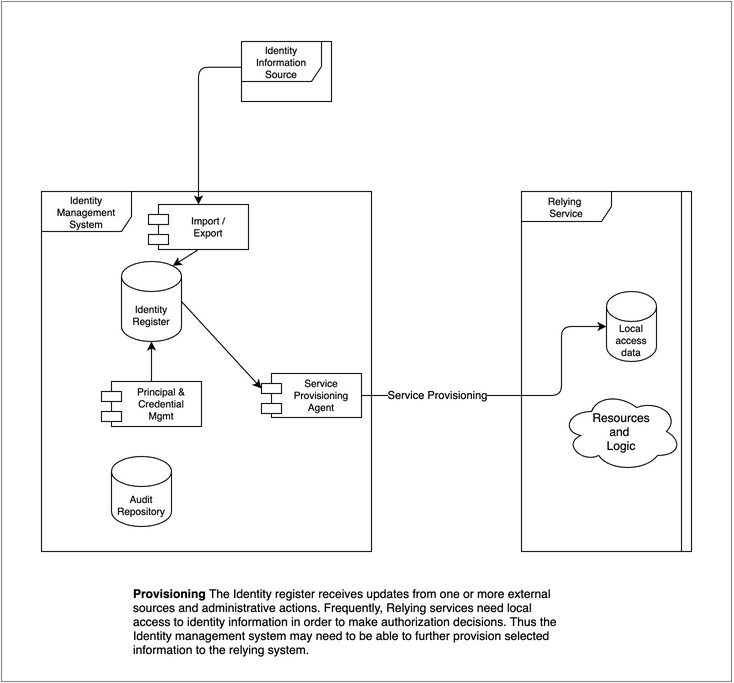
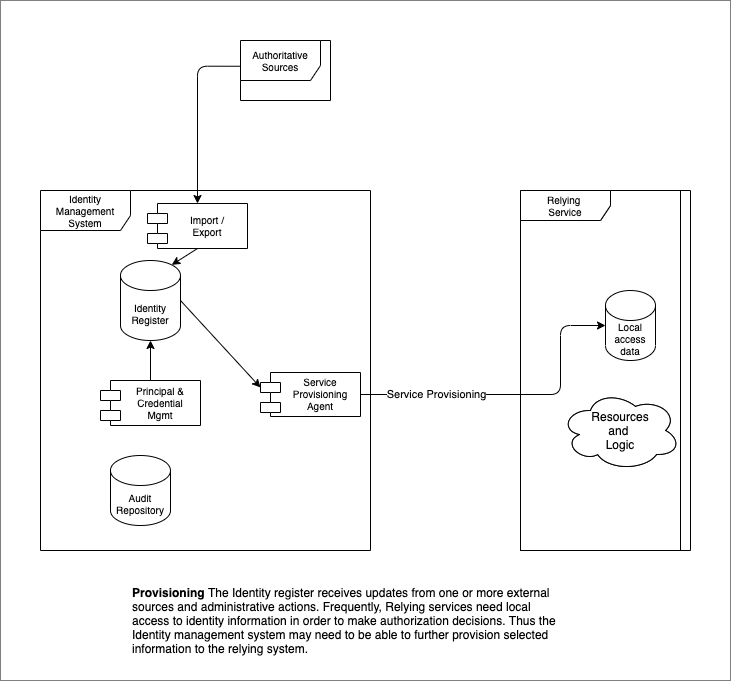
changes based on prior art models

diff --git a/tech-arch.md b/tech-arch.md
@@ -1,13 +1,18 @@
 # Technical Architecture Model
 ## Abstract
-This document provides a model to organize the presentation of technical details associated with various implementations of the architectural concepts.  This article provides the set of generic components which are exemplified below.  It is a restatement/extension of the ISO framing. It is simplified to remove the UML fine points, which the typical reader, may not find helpful. The extension allows authorization and governance can be included. Another extension shows how external risk context can be incorporated into the identity management system. 
+This document provides a model to organize the presentation of technical details associated with various implementations of the architectural concepts.  This article provides the set of generic components which are exemplified in subsequent articles with focus on specific technical use-cases. Each such use-case will indicate which of the abstract components are involved in a particular implementation.
+During the draft phase of this document an appendix is provided to elaborate on that these use-case might be and look like.
+
+The model is a restatement/extension of the ISO/IEC framing. It is simplified to remove the UML fine points, which the typical reader, may not find helpful. And it is extened so that authorization, governance and risk-control can be included. 
+
+The model has been compared to the FICAM, Internet 2, and NIST Zero Trust models.  This comparision caused the author to make some useful adjustments.
 
 ## Introduction
 The following is the basic organization of an identity management system, which supports multiple relying services.
 
 ![](resources/basic-component-dependencies.png)
 
-The most basic function of the identity system is to provide secure storage of the information about identities.  The audit repository is shown since that is perhaps one of the most salient aspects of providing that security. 
+The most basic function of the identity system is to provide secure storage of the information about identities and a way for relying services to use that data to control access to resources.  The audit repository is shown since that is perhaps one of the most salient aspects of providing that security. 
 
 While, it is possible to have an identity management system without attaching it to external data, this is typically not the case. Usually employee or customer data needs to be imported.
 
@@ -17,10 +22,27 @@ In another example, a file system grants access to users based on the user infor
 
 We will add on more detail during the next several sections.
 
+## Terminology
+
+|Term (long)|Term (short) | Definition |
+|---|---|---|
+|Identity Management System | IMS | A set of policies, procedures, technology, and other resources for maintaining identity information.  In this model it contains information about princpals/subjects including credentials.  It also including other data such as meta data to enable interoperability with other components.|
+|Relying Service|RS|A component, system or application that uses the IMS to identify its users. The RS has its own resources and logic. This roughly corresponds to the Agency Endpoint in the FICAM model, to Identity Consumers in the Internet2 model.|
+|Authoritative Sources|AS|This represents one or more data sources that are used to by the IMS as the basis for the master set of principal/subject records. Each AS may supply a subset of records and a subset of attributes.  This corresponds to Identity Information Source in ISO/IEC 24760-2, and Identity Sources in Internet 2|
+|Principal & Credential Mgmt|PCM|This follows the ISO model where the proofing, credentialing, and lifecycle aspects are considered a subfunction of the IMS.  FICAM separates this into a first class component called Credential Management System, which also includes PKI information for federation, which this model indicates under metadata and discovery.|
+|Authentication|AuthN|The act of determining that the principal/subject is authentic to a level of assurance.  In this model this is shown as a collaborative activity between the IMS and the RS. The FICAM model, at a more abstract level, includes this in the first class component called Access Management.|
+|Session|Sess|A period of time after an authentication event when an RS grants access to the principal/subject.|
+|Authorization|AuthZ|Authorization is how a decision is made to allow someone to access a resource. This is not included in the ISO or Internet 2 models.  The FICAM includes this as a subcomponent of the Access Management System. This model is more explicit about the location of the implementation of the authorization |
+|Access Governance|AG|Access Governance provides oversight and control over access rights implemented in many local or shared authorization systems.  This roughly corresponds to the Access Certification section of the first class component Governance Systems in the FICAM model. AG is not included in the ISO/IEC model.|
+|Risk Context|RC|Risk Context consists of additional facts that can be brought to bear to improve the overall security of the ecosystem. Internal or external events and facts can be applied to enable, limit, or terminate access.  This is similar to the section Monitors and Sensors under FICAM's Governance Systems, and, NIST 800-207 (Zero Trust) to many of the inputs of the Policy Decsion Point as shown in Figure 2.|
+|Metadata|meta|Control data that allows the Identity Management System to recognize and trust the Relying Service.  This corresponds to Relying Party data in the Internet 2 model.|
+
+
+
 ## Provisioning
 Provisioning describes how the data gets into the identity repository and how it flows further on to support authorization decisions.
 
-Note that the Identity Information Source can be singular, such as a single HR system.  Or it can plural, for instance in the case of a company that has, say, more than one HR system.  
+Note that the Authoritative Source can be singular, such as a single HR system.  Or it can plural, for instance in the case of a company that has, say, more than one HR system.  
 
 Also note, that the notion of importing does not necessarily mean making a physical copy of data, although it often does. The notion also supports the idea of virtualization - where the import of identity information is done at run-time.
 
@@ -45,14 +67,14 @@ The existence of a centralized point of view about sessions, can be leveraged to
 
 ![](resources/authentication-and-sessions.png)
 
-## Authorization models 
+## Authorization 
 Authorization models vary alot. The diagram shows two alternative approaches for authorization.
 
-Both approaches typically use user attributes help determine access.  These values can be provisioned into a local store, as described above in Provisioning.  Or the values can be acquired at run-time from the Identity Management System as shown by the attribute query.
+Both approaches typically use subject attributes help determine access.  These values can be provisioned into a local store, as described above in Provisioning.  Or the values can be acquired at run-time from the Identity Management System as shown by the attribute query.
 
 Many relying services perform authorization tasks internally.  The local nature of the protected resources often makes this appealing.  
 
-Sometimes authorization is a shared resource for many relying services.  This design can improve consistency of authorization decisions.
+Sometimes authorization is a shared resource for many relying services.  This design can improve consistency of authorization decisions and it allows a feasible way for organizations to include advanced access decisions strategies such as "Zero Trust" as described by NIST 800-207.
 
 ![](resources/authorization-models.png)
 
@@ -70,6 +92,10 @@ Risk context information can be valuable to improve the security of the relying 
 
 Events need to be delivered into the Identity Management System so that they can selectively be used to modify the behavior of the authentication function.  In some severe scenarios it may be desirable to attach the events to the session management function so that current sessions can be reviewed and terminated if needed.
 
+The diagram also shows that shared authorization systems may consume risk data as well.  For example an authorization might be denied if the subject's recent history is outside of normal bounds, indicating a compromised credential. Logically this could happen with local authorization as well, but it may be harder to get that implemented and so is not shown.
+
+The linkage from the IMS Audit Repository is intended to show that the Risk Contex consumes that as one of many inputs to the trust algorithm. (see NIST 800-207).
+
 ![](resources/risk-context.png)
 
 ## Metadata and Discovery
@@ -78,3 +104,62 @@ Metadata here is meant to convey the idea of control data that allows the Identi
 Discovery [Need help here]
 
 ![](resources/metadata-discovery.png)
+
+## References
+1. ISO/IEC 24760-2:2015(E) 
+2. FICAM https://playbooks.idmanagement.gov/arch/components/
+3. Internet 2 https://playbooks.idmanagement.gov/arch/components/
+4. NIST Zero Trust https://nvlpubs.nist.gov/nistpubs/SpecialPublications/NIST.SP.800-207.pdf
+
+## Appendix - Use Cases
+This appendix will be removed once use-case list is finalized and first few are written.
+
+Each article describes a single use-case as implemented in a particular architecture to illustrate a set of components and how they are connected and interact to perform the use-case.  These articles are grouped by the functions defined in the model.
+
+To retain context from  "Introduction to IAM Architecture," IDPro Body of Knowledge" the article will indicate what architecture type(s) the use case applies to.
+
+The use-case articles follow a common structure:
+
+   - Use-case name
+   - Architecture Type or types Host, Client-Server, N-tier, Hub & Spoke, Remote Access, Cloud Environments
+   - Short description
+   - Actors, components and connectors included (with a diagram).  
+      - The components and connectors refer to the abstract architectural components and their implementations in this use-case.
+   - Prerequisites
+   - Exposition on how the components work together and some level of detail deemed by the author appropriate for the reader
+   - Where to find more information on this and adjacent use-cases
+
+Example: of a use-case.  This example is chosen to indicate how constrained these articles are intended to be.  There could be quite a few variations on Windows login.  
+
+   Name: Employee logs in to Windows domain - Kerberos
+   Short Description: Interactive domain login using password (Kerberos)
+   Architecture Type: Client-Server
+   Description: An existing employee logs into the corporate Windows environment with a password.
+   Actors/Components: User (employee), network attached computer running Windows 10, Microsoft Active Directory (IDENTITY REGISTER),  Kerberos protocol (AUTHENTICATION)
+
+### List of use-cases 
+
+The list of use-case articles is intended to grow over time. [seeded 5/20/21 - discuss with cmte for more]
+
+#### Function: Authentication
+
+1. Employee logs in to Windows domain - Kerberos
+1. Customer logs in from web browser - OpenID Connect
+1. Cloud service authenticates via delegation - SAML
+
+#### Function: Provisioning
+
+1. Directory absorbs changed people information from HR - LDAP
+1. Directory synchronizes with downstream resource - SCIM
+
+#### Function: Attribute Exchange
+
+1. Attributes are provided in assertion - SAML
+2. Attributes are requested - OpenID Connect
+
+#### Function: Authorization
+
+1. File system authorizes access - Windows
+2. Application authorizes based on attributes - custom
+3. Application delegates to policy service - OAuth
+4. Cloud service authorizes based on role assumed from single signon - Cloud
